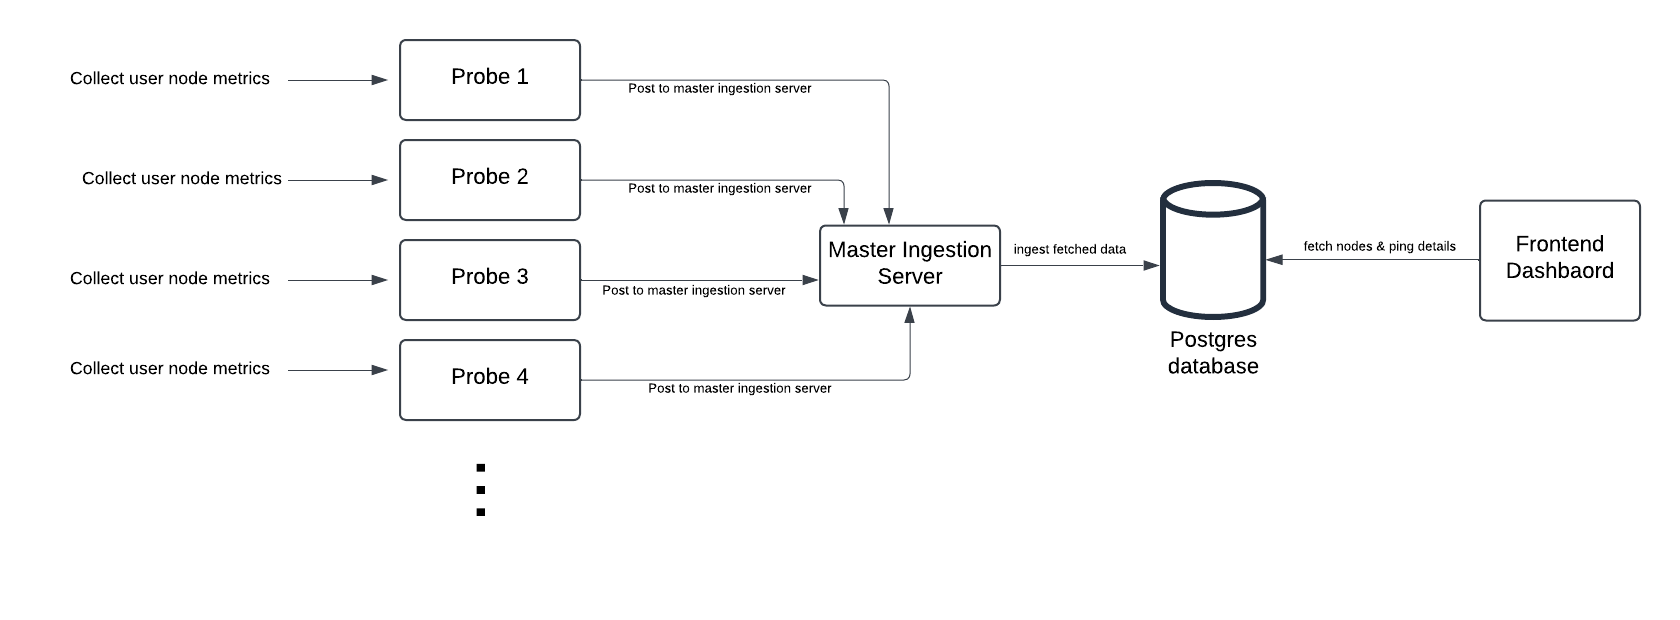
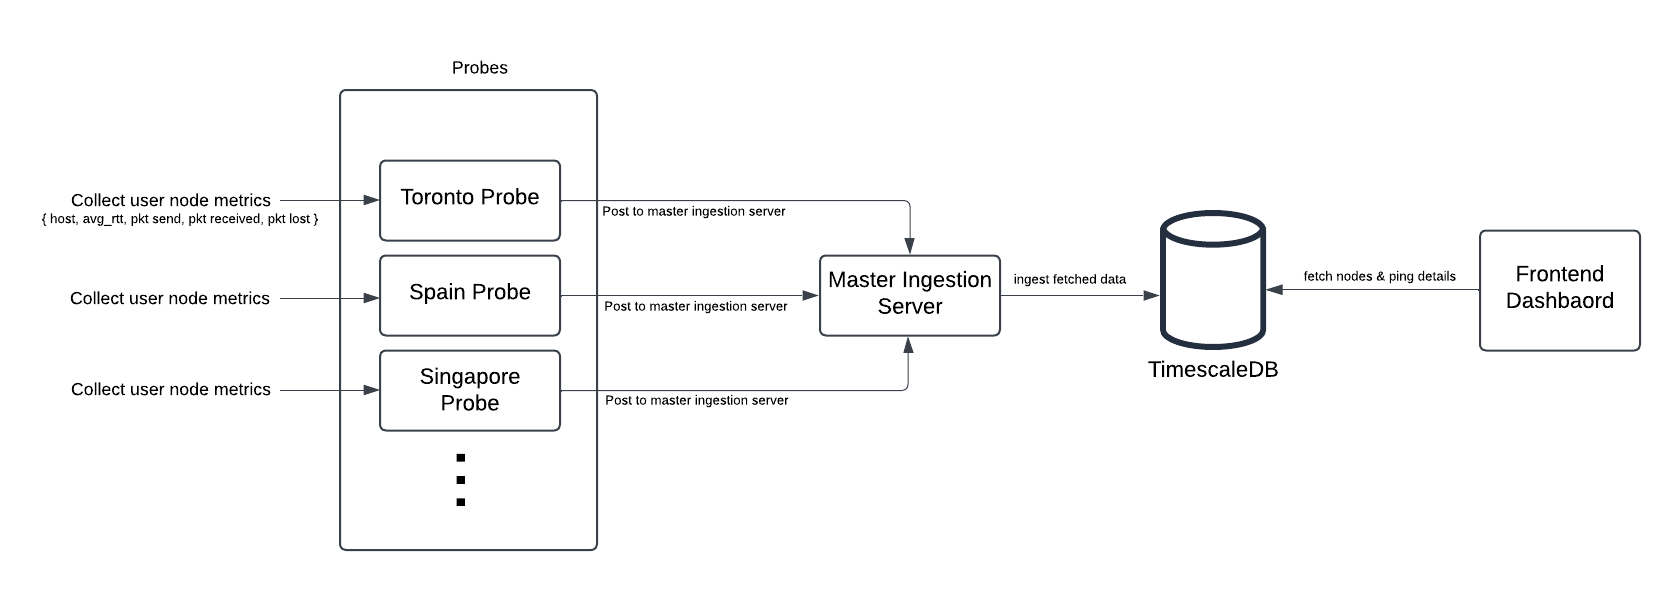
- update architectural diagram - add proper logs in ping util and probe scripts - env variable read fix

diff --git a/metric_probe/probe.py b/metric_probe/probe.py
@@ -1,26 +1,46 @@
-from ping_util import ping_util
-import requests
-import json
 import os
+import json
+import logging
+import requests
 from datetime import datetime
 from jose import jwt
-
-# JWT token configs: secret key and algorithm
-# this secret match JWT secret in script
+from dotenv import load_dotenv
+from pathlib import Path
+from ping_util import ping_util
 
 env = os.getenv('ENV', 'dev')  # Defaults to 'dev' if not set
+
+# Determine which .env file to load
+env_file = f".env.{env}"
+
+# Configure logging
+logging.basicConfig(
+    level=logging.INFO,
+    format="%(asctime)s - %(levelname)s - %(message)s",
+    handlers=[
+        logging.FileHandler(f"{env}.log"),  # Logs to a file
+        # logging.StreamHandler()          # Logs to the console
+    ]
+)
+
+# Load the environment-specific .env file
+dotenv_path = Path(env_file)
+if dotenv_path.exists():
+    load_dotenv(dotenv_path)
+    logging.info(f"Loaded environment variables from {env_file}")
+else:
+    logging.warning(f"Environment file {env_file} not found. Falling back to default environment variables.")
+
 MASTER_INGESTION_URL = os.getenv('MASTER_INGESTION_URL')
 JWT_SECRET_KEY = os.getenv('JWT_SECRET_KEY')
 ALGORITHM = os.getenv('ALGORITHM')
 PROBE_NAME = os.getenv('PROBE_NAME')  # take probe name from env variable
 
-print(f'Probe name: {PROBE_NAME}')
+logging.info(f'Probe name: {PROBE_NAME}')
 # if probe name is not available, exit the program
 if PROBE_NAME is None:
-    print("Missing probe name!")
+    logging.error("Missing probe name!")
     exit(1)
-
-print(f'Environment: {env}')
 
 
 def generate_token():
@@ -34,7 +54,6 @@ def generate_token():
 
 # Get the token
 token = generate_token()
-print(f"Generated token: {token}")
 
 # Headers with the Authorization token
 headers = {
@@ -55,16 +74,14 @@ def get_nodes_from_api():
 
 nodes = get_nodes_from_api()
 
-
 # Check if nodes is None
 if nodes is None:
-    print("No nodes available.")
+    logging.info("No nodes available.")
 else:
     for node in nodes:
         ip_address = node[3]
-        # print(f'Pinging {ip_address}...')
         ping_response = ping_util(ip_address)
-        print(ping_response)
+        logging.info(ping_response)
 
         ping_details = ping_response[0]
         traceroute_data = ping_response[1]
@@ -88,12 +105,12 @@ else:
 
             # Check if the request was successful
             if response.status_code == 200:
-                print(
+                logging.info(
                     f"Ping result for {ip_address} successfully sent to API.")
             else:
-                print(
+                logging.error(
                     f"Failed to send ping result for {ip_address}. Status code: {response.status_code}")
-                print(f"Response: {response.text}")
+                logging.error(f"Response: {response.text}")
 
         except requests.exceptions.RequestException as e:
-            print(f"Error sending ping result for {ip_address}: {e}")
+            logging.error(f"Error sending ping result for {ip_address}: {e}")

diff --git a/metric_probe/ping_util.py b/metric_probe/ping_util.py
@@ -1,4 +1,20 @@
+import os
+import logging
 from icmplib import ping, traceroute
+
+env = os.getenv('ENV', 'dev')  # Defaults to 'dev' if not set
+
+env_file = f".env.{env}"
+
+# Configure logging
+logging.basicConfig(
+    level=logging.INFO,
+    format="%(asctime)s - %(levelname)s - %(message)s",
+    handlers=[
+        logging.FileHandler(f"{env}.log"),  # Logs to a file
+        logging.StreamHandler()               # Logs to the console
+    ]
+)
 
 
 def ping_util(ip_address):
@@ -15,28 +31,22 @@ def ping_util(ip_address):
     """
     # Perform the ping
     host = ping(ip_address, count=4, interval=0.2)
-    print(f'Ping Host Details: {host}')
-    print(f'Address: {host.address}')
-    print(f'Avg RTT: {host.avg_rtt} ms')
-    print(f'Packets Sent: {host.packets_sent}')
-    print(f'Packets Received: {host.packets_received}')
-    print(f'Loss Percentage: {host.packet_loss}%')
+    logging.info({
+        "message": "Ping Host Details",
+        "address": host.address,
+        "avg_rtt": host.avg_rtt,
+        "packets_sent": host.packets_sent,
+        "packets_received": host.packets_received,
+        "packet_loss": host.packet_loss
+    })
 
     # Perform the traceroute
-    print('\nTraceroute Details:')
     hops = traceroute(host.address, count=1, interval=1,
-                      max_hops=30, timeout=2)
+                      max_hops=10, timeout=2)
 
     # Structure the traceroute data
-    traceroute_data = []
-    for hop in hops:
-        print(
-            f'  Hop {hop.distance}: Address: {hop.address}, RTT: {hop.avg_rtt} ms')
-        traceroute_data.append({
-            "hop_number": hop.distance,
-            "ip_address": hop.address,
-            "rtt": hop.avg_rtt
-        })
+    traceroute_data = [{"hop_number": hop.distance,
+                        "ip_address": hop.address, "rtt": hop.avg_rtt} for hop in hops]
 
     # Return a structured dictionary containing both ping and traceroute data
     return (host, traceroute_data)
